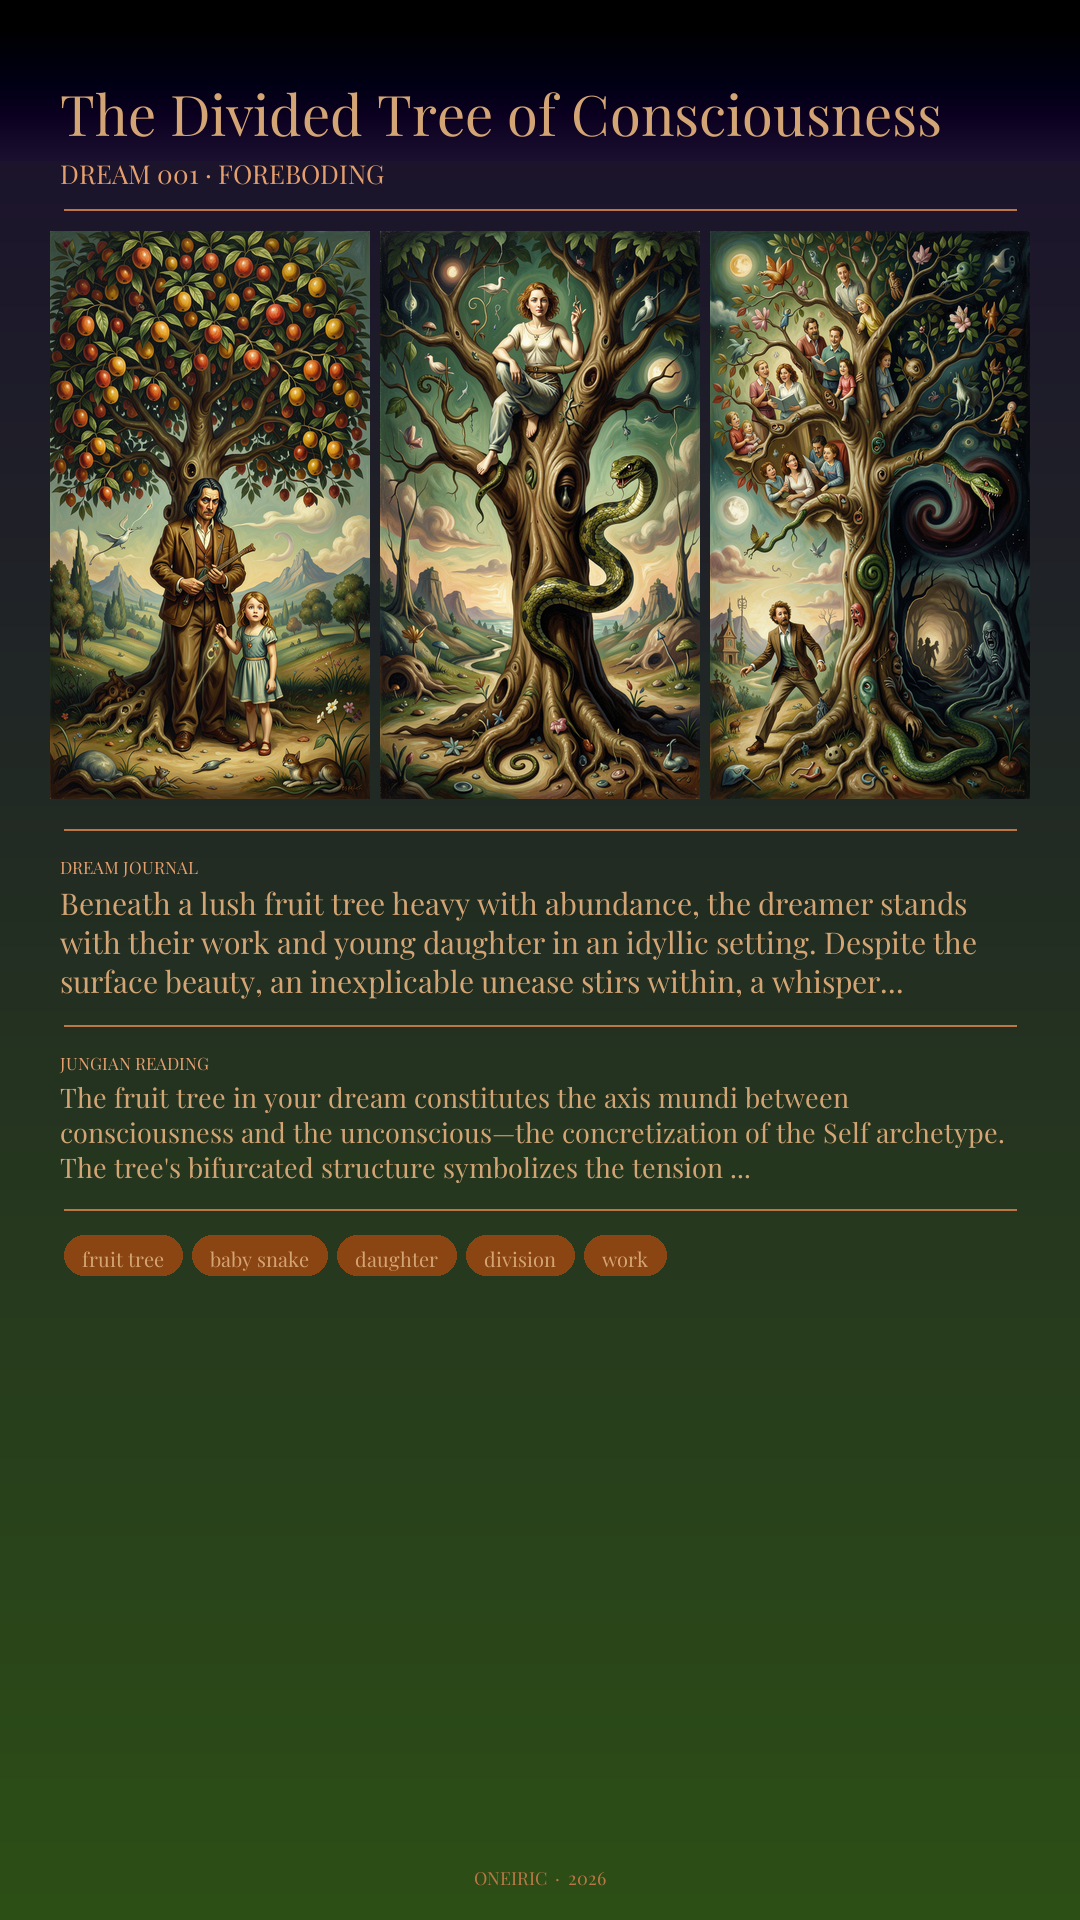
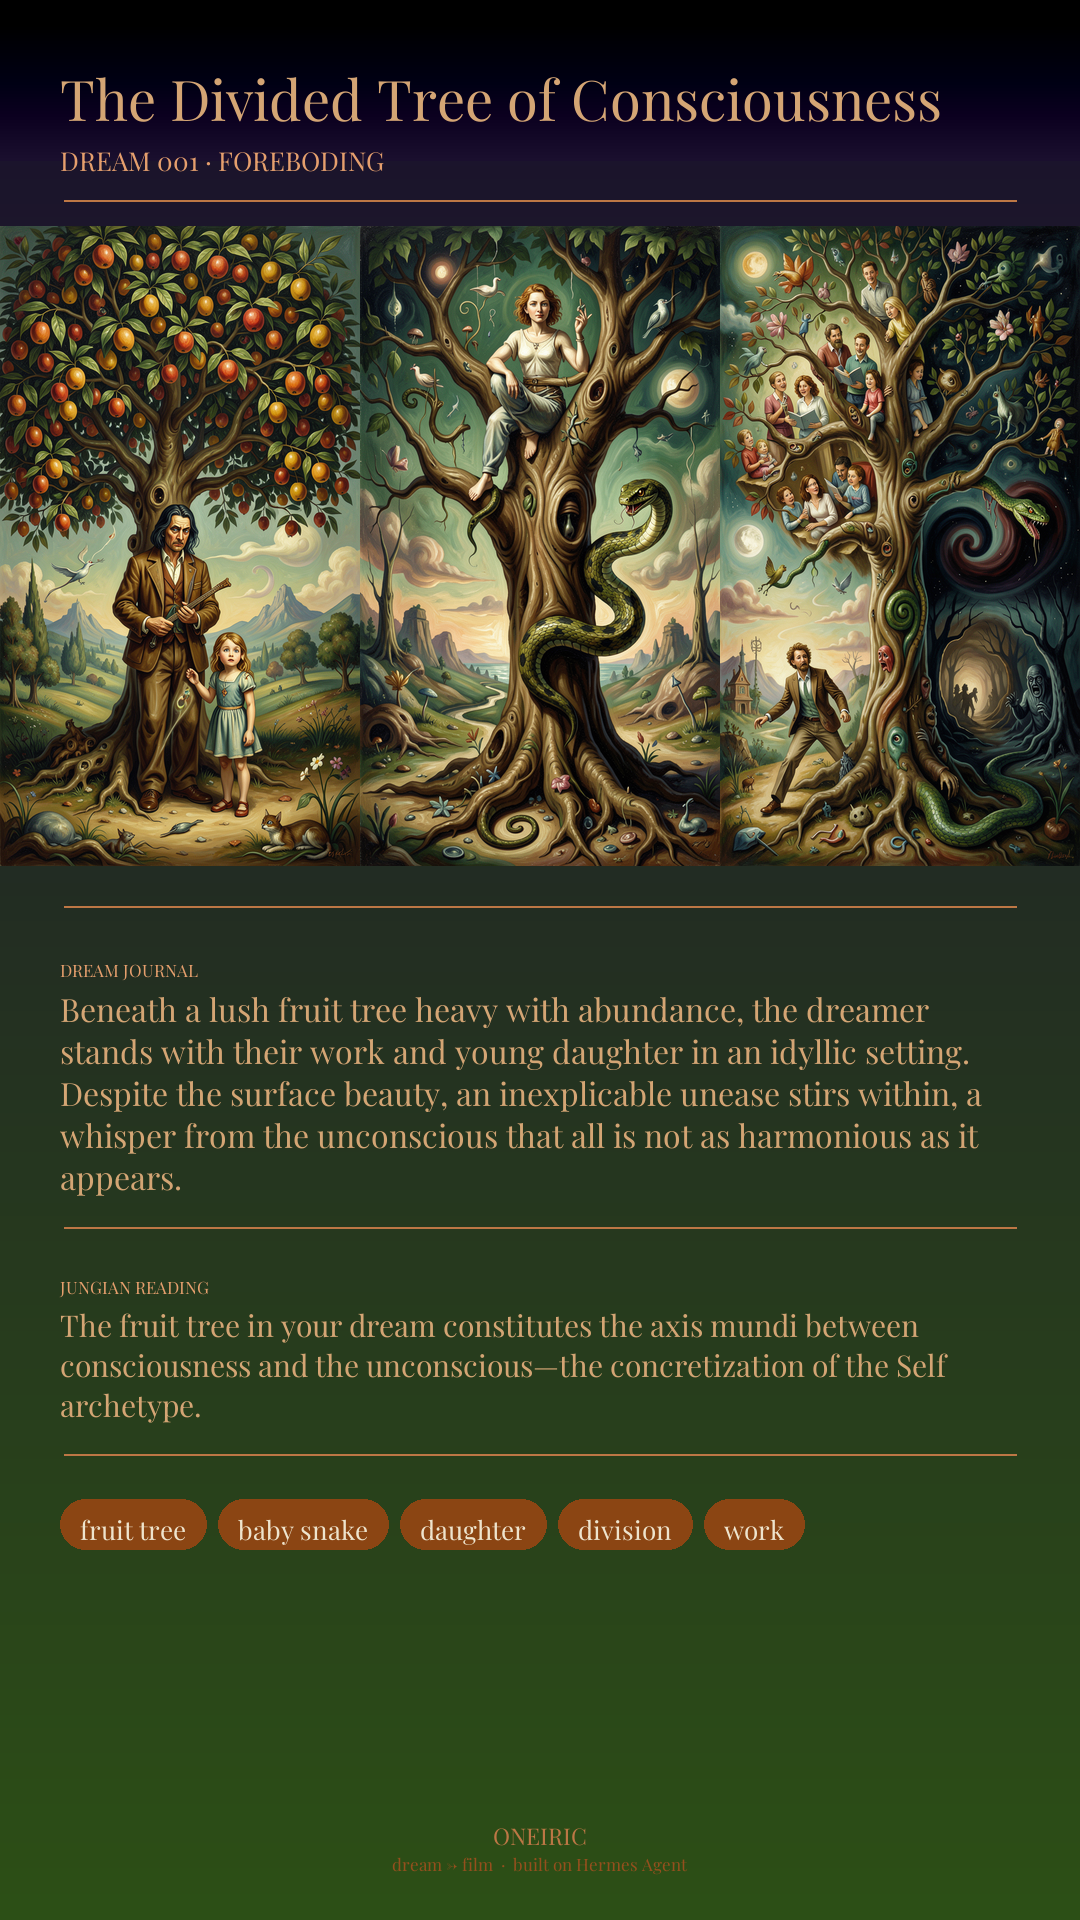
polish(card): full-height layout + English symbol chips + better gradient
- Symbol chips: auto-detect Turkish chars, translate via Hermes, cache in symbols_en.json
- Layout: strip 360×640 full-width, section paddings increased to reach ~y=1840
- Gradient: HSL darkening when palette has only one dark color (fixes flat green bg)
- Chip contrast: luminance-based text color (dark chip→light text, light chip→dark text)
- Text truncation: smart sentence-boundary cut at 280 chars, normalize whitespace/newlines
- Footer: two-line layout (ONEIRIC + "dream → film · built on Hermes Agent")
- Hermes: strip session footer from extracted responses to prevent cache corruption

diff --git a/pipeline/card.py b/pipeline/card.py
@@ -6,6 +6,7 @@ Produces a 1080×1920 PNG suitable for Instagram / social media.
 
 from __future__ import annotations
 
+import colorsys
 import json
 import re
 import subprocess
@@ -20,9 +21,10 @@ CARD_W, CARD_H = 1080, 1920
 PAD_X = 60
 FONT_PATH = Path("assets/fonts/PlayfairDisplay.ttf")
 
-STRIP_IMG_W = 320
-STRIP_IMG_H = 568
-STRIP_GAP = 10
+# Strip spans full card width, no gaps
+STRIP_IMG_W = 360
+STRIP_IMG_H = 640
+STRIP_GAP = 0
 
 # ── Color helpers ─────────────────────────────────────────────────────────────
 
@@ -36,6 +38,14 @@ def _luminance(rgb: tuple[int, int, int]) -> float:
     return 0.299 * r + 0.587 * g + 0.114 * b
 
 
+def _darken_hsl(rgb: tuple[int, int, int], factor: float = 0.6) -> tuple[int, int, int]:
+    """Darken a color by reducing HSL lightness — preserves saturation."""
+    r, g, b = rgb
+    h, l, s = colorsys.rgb_to_hls(r / 255, g / 255, b / 255)
+    r2, g2, b2 = colorsys.hls_to_rgb(h, max(0.0, l * factor), s)
+    return int(r2 * 255), int(g2 * 255), int(b2 * 255)
+
+
 def _sort_palette(palette: list[str]) -> list[tuple[int, int, int]]:
     """Return list of RGB tuples sorted darkest-first by luminance."""
     rgbs = [_hex_to_rgb(h) for h in palette]
@@ -46,30 +56,26 @@ def _sort_palette(palette: list[str]) -> list[tuple[int, int, int]]:
 def _pick_colors(palette: list[str]):
     """Return (bg_top, bg_bot, text_color, accent_color, sep_color)."""
     sorted_rgbs = _sort_palette(palette)
-    # Background: darkest colors that are actually dark (lum < 128)
     dark = [c for c in sorted_rgbs if _luminance(c) < 128]
+
     if len(dark) >= 2:
         bg_top, bg_bot = dark[0], dark[1]
     elif len(dark) == 1:
-        # Make a slightly lighter variant for the bottom
+        # Darken via HSL so gradient looks real, not flat
         bg_top = dark[0]
-        bg_bot = tuple(min(255, c + 25) for c in dark[0])
+        bg_bot = _darken_hsl(dark[0], factor=0.6)
     else:
-        # All light palette — darken the darkest
-        bg_top = tuple(max(0, c - 100) for c in sorted_rgbs[0])
-        bg_bot = tuple(max(0, c - 70) for c in sorted_rgbs[0])
+        # All light — darken the darkest color
+        bg_top = _darken_hsl(sorted_rgbs[0], factor=0.5)
+        bg_bot = _darken_hsl(sorted_rgbs[0], factor=0.35)
 
-    # Text: lightest palette color, but ensure readable (lum > 150)
     lightest = sorted_rgbs[-1]
     if _luminance(lightest) > 150:
         text_color = lightest
     else:
         text_color = (238, 228, 205)  # warm cream fallback
 
-    # Accent: mid-range color (not darkest, not lightest)
     accent_color = sorted_rgbs[max(0, len(sorted_rgbs) // 2)]
-
-    # Separator: slightly brightened accent
     sep_color = tuple(min(255, c + 50) for c in accent_color)
 
     return bg_top, bg_bot, text_color, accent_color, sep_color
@@ -109,10 +115,16 @@ def _extract_plain_response(raw: str) -> str:
     marker = raw.find("⚕ Hermes")
     start = (marker + len("⚕ Hermes")) if marker != -1 else 0
     text = raw[start:].strip()
-    # Drop TUI box-drawing lines (│ ╰ ╭ etc.)
     lines = [l for l in text.splitlines()
              if not re.match(r"^\s*[│╰╭╮╯┤├┼─═]+\s*$", l)]
-    return "\n".join(lines).strip()
+    result = "\n".join(lines).strip()
+    # Strip Hermes session footer and everything after it
+    for footer_marker in ("Resume this session with:", "\nSession:", "\nDuration:"):
+        idx = result.find(footer_marker)
+        if idx != -1:
+            result = result[:idx].strip()
+            break
+    return result
 
 
 def translate_to_english(text_tr: str) -> str:
@@ -128,16 +140,64 @@ def translate_to_english(text_tr: str) -> str:
     return _extract_plain_response(raw)
 
 
+def _is_turkish(text: str) -> bool:
+    """Return True if text contains Turkish-specific characters."""
+    return bool(re.search(r'[üşıöğçÜŞİÖĞÇ]', text))
+
+
+def _translate_symbol(symbol: str) -> str:
+    """Translate a single Turkish dream symbol to English via Hermes."""
+    escaped = json.dumps(symbol)[1:-1]
+    prompt = (
+        "Translate this single Turkish dream symbol or short phrase to English. "
+        "Use concise, evocative language. "
+        "Respond with ONLY the English translation, no quotes, no explanation: "
+        f"'{escaped}'"
+    )
+    raw = _call_hermes_plain(prompt, timeout=60)
+    return _extract_plain_response(raw)
+
+
+def translate_symbols(symbols: list[str], cache_path: Path,
+                      force_retranslate: bool = False) -> list[str]:
+    """Translate Turkish symbols to English, caching results in symbols_en.json."""
+    cache: dict[str, str] = {}
+    if cache_path.exists() and not force_retranslate:
+        with open(cache_path) as f:
+            cache = json.load(f)
+
+    result = []
+    changed = False
+    for sym in symbols:
+        if _is_turkish(sym):
+            if sym not in cache:
+                cache[sym] = _translate_symbol(sym)
+                changed = True
+            result.append(cache[sym])
+        else:
+            result.append(sym)
+
+    if changed:
+        with open(cache_path, "w") as f:
+            json.dump(cache, f, ensure_ascii=False, indent=2)
+
+    return result
+
+
 # ── Text helpers ──────────────────────────────────────────────────────────────
 
-def _first_n_sentences(text: str, n: int, max_chars: int) -> str:
-    """Take first n sentences, truncate at max_chars, append ellipsis."""
-    parts = re.split(r"(?<=[.!?])\s+", text.strip())
-    result = " ".join(parts[:n])
-    if len(result) > max_chars:
-        result = result[:max_chars].rsplit(" ", 1)[0]
-    result = result.rstrip(".!?") + "..."
-    return result
+def _smart_truncate(text: str, max_chars: int) -> str:
+    """Truncate at sentence boundary ≤ max_chars. Append '...' only if cut."""
+    text = " ".join(text.split())  # normalize whitespace and newlines
+    if len(text) <= max_chars:
+        return text
+    chunk = text[:max_chars]
+    # Prefer cutting at last sentence-ending punctuation
+    m = list(re.finditer(r'[.!?]', chunk))
+    if m:
+        return text[:m[-1].end()].strip()
+    # No sentence end — cut at last word boundary
+    return chunk.rsplit(" ", 1)[0].rstrip() + "..."
 
 
 def _wrap_lines(draw: ImageDraw.ImageDraw, text: str,
@@ -185,8 +245,8 @@ def _draw_separator(draw: ImageDraw.ImageDraw, y: int,
 def _draw_chips(draw: ImageDraw.ImageDraw, symbols: list[str],
                 font: ImageFont.FreeTypeFont, start_y: int,
                 chip_bg: tuple, chip_text: tuple,
-                pad_x: int = 64, h_pad: int = 18,
-                v_pad: int = 10, gap: int = 10) -> int:
+                pad_x: int = 60, h_pad: int = 20,
+                v_pad: int = 12, gap: int = 12) -> int:
     """Draw rounded symbol chips. Returns Y after the last row."""
     x, y = pad_x, start_y
     row_h = font.size + v_pad * 2
@@ -242,8 +302,9 @@ def generate_card(
           scene_1.jpeg, scene_2.jpeg, scene_3.jpeg
           analysis.json
 
-    Cache: translated Jungian English saved to
-      dream_dir/<run>/jungian_reading_en.txt
+    Caches:
+      <run_dir>/jungian_reading_en.txt  — Jungian translation
+      <run_dir>/symbols_en.json         — symbol chip translations
 
     Returns dict with status, output_path, file_size_kb, color_palette_used,
     translation_cached, render_time_sec, error.
@@ -284,13 +345,13 @@ def generate_card(
         title_font      = ImageFont.truetype(fp, 56)
         subtitle_font   = ImageFont.truetype(fp, 26)
         label_font      = ImageFont.truetype(fp, 17)
-        transcript_font = ImageFont.truetype(fp, 30)
-        jung_font       = ImageFont.truetype(fp, 27)
-        chip_font       = ImageFont.truetype(fp, 20)
-        footer_font     = ImageFont.truetype(fp, 18)
+        transcript_font = ImageFont.truetype(fp, 32)
+        jung_font       = ImageFont.truetype(fp, 30)
+        chip_font       = ImageFont.truetype(fp, 26)
+        footer_font1    = ImageFont.truetype(fp, 23)
+        footer_font2    = ImageFont.truetype(fp, 17)
 
-        # ── Translation (cached) ──────────────────────────────────────────────
-        # Cache lives next to analysis.json
+        # ── Jungian translation (cached) ──────────────────────────────────────
         en_cache = analysis_path.parent / "jungian_reading_en.txt"
         if en_cache.exists() and not force_retranslate:
             jung_en = en_cache.read_text().strip()
@@ -301,6 +362,11 @@ def generate_card(
             en_cache.write_text(jung_en)
             out["translation_cached"] = False
 
+        # ── Symbol translation (cached) ───────────────────────────────────────
+        symbols_raw = analysis.get("symbols") or dream.get("symbols", [])
+        symbols_cache = analysis_path.parent / "symbols_en.json"
+        symbols = translate_symbols(symbols_raw, symbols_cache, force_retranslate)
+
         # ── Text content ──────────────────────────────────────────────────────
         title = dream.get("title") or analysis.get("title", "Untitled Dream")
         mood  = (analysis.get("mood") or dream.get("mood", "")).upper()
@@ -309,11 +375,8 @@ def generate_card(
 
         scenes = analysis.get("scenes", [])
         first_desc = scenes[0]["description"] if scenes else ""
-        transcript_snippet = _first_n_sentences(first_desc, 2, 200) if first_desc else ""
-
-        jung_snippet = _first_n_sentences(jung_en, 3, 250) if jung_en else ""
-
-        symbols = analysis.get("symbols") or dream.get("symbols", [])
+        transcript_snippet = _smart_truncate(first_desc, 280) if first_desc else ""
+        jung_snippet = _smart_truncate(jung_en, 280) if jung_en else ""
 
         # ── Scene images ──────────────────────────────────────────────────────
         scene_paths = sorted(scene_dir.glob("scene_*.jpeg"))[:3]
@@ -327,7 +390,7 @@ def generate_card(
         draw = ImageDraw.Draw(canvas)
         _draw_gradient(draw, CARD_W, CARD_H, bg_top, bg_bot)
 
-        # Dim overlay: top 160px (vignette effect)
+        # Top vignette
         for i in range(160):
             t = (160 - i) / 160
             d = int(t * 55)
@@ -336,87 +399,89 @@ def generate_card(
                 fill=tuple(max(0, c - d) for c in bg_top),
             )
 
-        # ── Layout ────────────────────────────────────────────────────────────
+        # ── Chip colors: proper luminance-based contrast ───────────────────────
         content_w = CARD_W - PAD_X * 2
         label_color = tuple(min(255, c + 90) for c in accent_color)
-        # Chip: use accent as bg, text_color as label — check contrast
-        chip_text_color = bg_top if _luminance(accent_color) > 100 else text_color
+        chip_bg = accent_color
+        # Dark chip → light text; light chip → dark text
+        chip_text_color = (20, 20, 20) if _luminance(chip_bg) > 128 else (238, 228, 205)
 
-        y = 75
+        # ── Layout ────────────────────────────────────────────────────────────
+        y = 60
 
         # Title
         y = _draw_text_block(draw, title, title_font,
                              PAD_X, y, content_w, text_color,
-                             line_spacing=10) + 14
+                             line_spacing=10) + 16
 
-        # Subtitle
+        # Subtitle (mood / archetype)
         y = _draw_text_block(draw, subtitle_text, subtitle_font,
                              PAD_X, y, content_w, label_color,
-                             line_spacing=6) + 22
-
-        # Separator
-        _draw_separator(draw, y, sep_color)
-        y += 22
-
-        # Image strip
-        n = len(scene_imgs)
-        strip_total_w = n * STRIP_IMG_W + (n - 1) * STRIP_GAP
-        strip_x = (CARD_W - strip_total_w) // 2
-        for i, img in enumerate(scene_imgs):
-            canvas.paste(img, (strip_x + i * (STRIP_IMG_W + STRIP_GAP), y))
-        y += STRIP_IMG_H + 30
+                             line_spacing=6) + 26
 
         # Separator
         _draw_separator(draw, y, sep_color)
         y += 26
 
-        # Transcript section
+        # Image strip — full card width, no gaps
+        for i, img in enumerate(scene_imgs):
+            canvas.paste(img, (i * STRIP_IMG_W, y))
+        y += STRIP_IMG_H + 40
+
+        # Separator
+        _draw_separator(draw, y, sep_color)
+        y += 52  # padding before Dream Journal
+
+        # Dream Journal
         _draw_text_block(draw, "DREAM JOURNAL", label_font,
                          PAD_X, y, content_w, label_color)
-        y += label_font.size + 10
+        y += label_font.size + 12
 
         if transcript_snippet:
             y = _draw_text_block(draw, transcript_snippet, transcript_font,
                                  PAD_X, y, content_w, text_color,
-                                 line_spacing=9) + 26
+                                 line_spacing=10) + 30
         else:
-            y += 26
+            y += 30
 
         # Separator
         _draw_separator(draw, y, sep_color)
-        y += 26
+        y += 48  # padding before Jungian Reading
 
-        # Jungian section
+        # Jungian Reading
         _draw_text_block(draw, "JUNGIAN READING", label_font,
                          PAD_X, y, content_w, label_color)
-        y += label_font.size + 10
+        y += label_font.size + 12
 
         if jung_snippet:
             y = _draw_text_block(draw, jung_snippet, jung_font,
                                  PAD_X, y, content_w, text_color,
-                                 line_spacing=8) + 26
+                                 line_spacing=10) + 30
         else:
-            y += 26
+            y += 30
 
         # Separator
         _draw_separator(draw, y, sep_color)
-        y += 26
+        y += 45  # padding before chips
 
         # Symbol chips
         if symbols:
             _draw_chips(draw, symbols, chip_font, y,
-                        chip_bg=accent_color,
+                        chip_bg=chip_bg,
                         chip_text=chip_text_color)
 
-        # Footer — fixed to bottom
-        footer_text = "ONEIRIC  ·  2026"
-        fw = int(draw.textlength(footer_text, font=footer_font))
-        draw.text(
-            ((CARD_W - fw) // 2, CARD_H - 55),
-            footer_text,
-            font=footer_font,
-            fill=sep_color,
-        )
+        # ── Footer — fixed to bottom ──────────────────────────────────────────
+        footer_y = CARD_H - 100
+        footer_text1 = "ONEIRIC"
+        fw1 = int(draw.textlength(footer_text1, font=footer_font1))
+        draw.text(((CARD_W - fw1) // 2, footer_y), footer_text1,
+                  font=footer_font1, fill=sep_color)
+
+        footer_text2 = "dream \u2192 film  \u00b7  built on Hermes Agent"
+        fw2 = int(draw.textlength(footer_text2, font=footer_font2))
+        footer_color2 = tuple(max(0, c - 40) for c in sep_color)
+        draw.text(((CARD_W - fw2) // 2, footer_y + 32), footer_text2,
+                  font=footer_font2, fill=footer_color2)
 
         # ── Save ──────────────────────────────────────────────────────────────
         output_path.parent.mkdir(parents=True, exist_ok=True)
@@ -443,7 +508,7 @@ if __name__ == "__main__":
     ap.add_argument("--dream-dir", required=True)
     ap.add_argument("--output", required=True)
     ap.add_argument("--force-retranslate", action="store_true",
-                    help="Ignore cached English translation")
+                    help="Ignore cached translations (Jungian + symbols)")
     args = ap.parse_args()
 
     result = generate_card(
